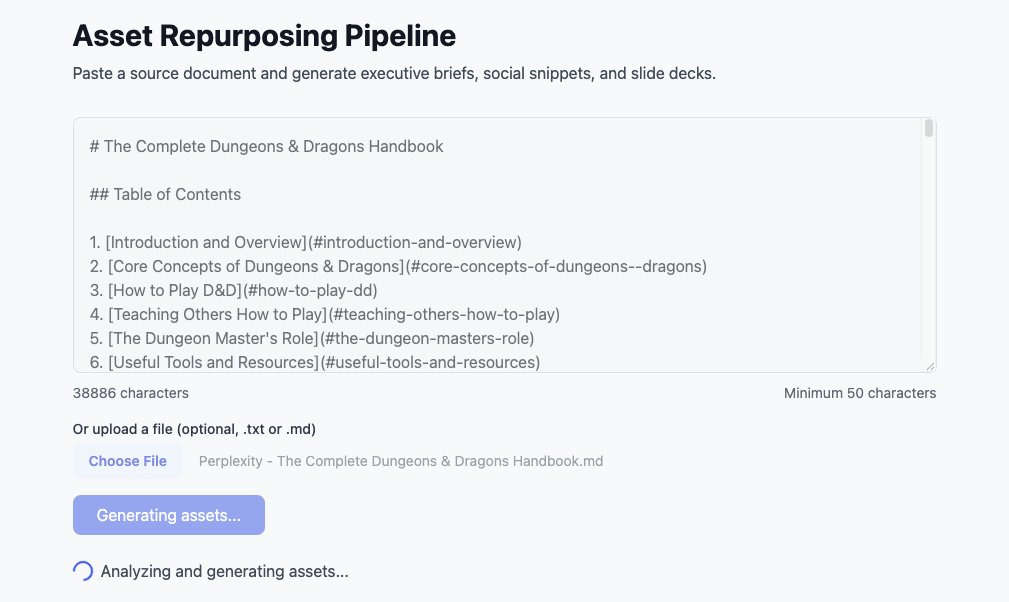
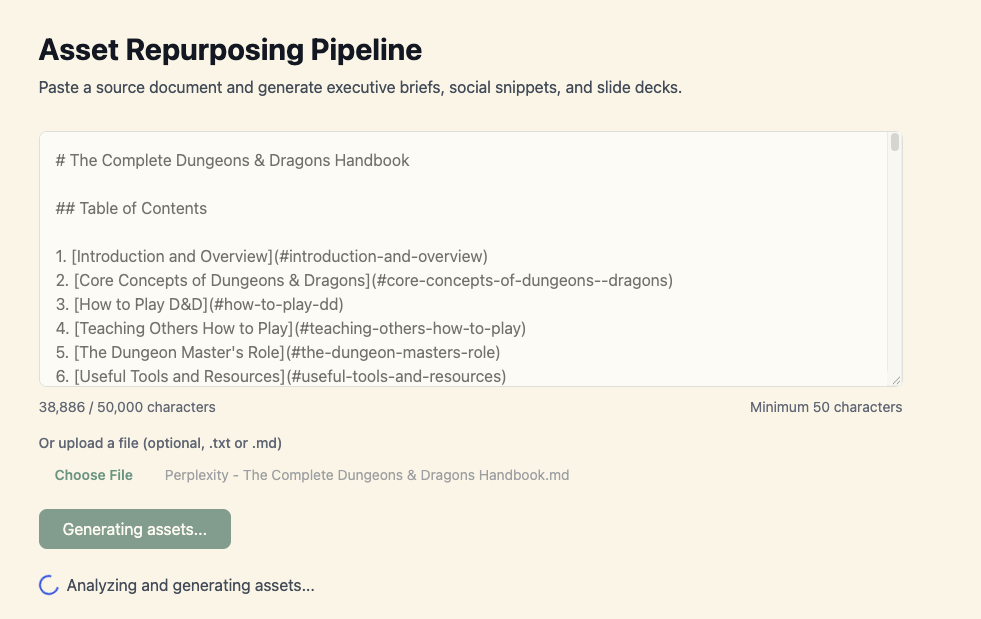
Update the screenshots to include the proper color alignment and to show the tiered slide deck bullet points.

diff --git a/README.md b/README.md
@@ -136,39 +136,31 @@ The frontend proxies pipeline requests to the backend through a Next.js Route Ha
 
 ## Live Demo
 
-The screenshots below show a real end-to-end run against a long source document: [`assets-for-repurposing/Perplexity - The Complete Dungeons & Dragons Handbook.md`](assets-for-repurposing/Perplexity%20-%20The%20Complete%20Dungeons%20%26%20Dragons%20Handbook.md).
+> **Live demo source:** The screenshots below show a real end-to-end run against [`assets-for-repurposing/Perplexity - The Complete Dungeons & Dragons Handbook.md`](assets-for-repurposing/Perplexity%20-%20The%20Complete%20Dungeons%20%26%20Dragons%20Handbook.md). The document is ≈38,900 characters, so it fits cleanly under the `MAX_SOURCE_CHARS=50000` default without truncation.
 
-> **Important truncation notice:** The screenshot below was captured when the backend `MAX_SOURCE_CHARS` default was `20000`. The pipeline detected the overflow, truncated the input for the LLM call, and **explicitly surfaced the truncation warning in the UI** so the user knows the output was derived from a shortened excerpt. The default cap has since been raised to `50000` characters, so the demo document (≈38,900 characters) now fits without truncation. The warning banner still appears for any source that exceeds the configured cap.
-
-### Home screen
+### 1. Home screen
 
 ![Home screen](screenshots/local-asset-repurposing-home-screenshot.png)
 
-### Source input
+### 2. Source input
 
 ![Source text uploaded](screenshots/local-asset-repurposing-input.png)
 
-### Generating assets
+### 3. Generating assets
 
 ![Loading state](screenshots/local-asset-repurposing-generating-assets-loading.png)
 
-### Executive brief (with truncation warning)
+### 4. Executive brief
 
-> **The truncation warning is visible at the top of this card.** This demonstrates the pipeline's fail-safe behavior: rather than silently processing a partial document, it tells the user that the source was truncated.
+![Executive brief](screenshots/local-asset-repurposing-executive-brief.png)
 
-![Executive brief with truncation warning](screenshots/local-source-truncated-and-executive-brief.png)
+### 5. Social snippets
 
-### LinkedIn social snippet
+![Social snippets](screenshots/local-asset-repurposing-social-snippets.png)
 
-![LinkedIn social snippet](screenshots/local-asset-social-snippet-linkedin.png)
+### 6. Slide deck with tiered bullets and speaker notes
 
-### X / Twitter social snippet
-
-![X / Twitter social snippet](screenshots/local-asset-social-snippet-x-twitter.png)
-
-### Slide deck with tiered bullets and speaker notes
-
-![Slide deck with tiered bullets and speaker notes](screenshots/local-asset-slide-deck-tiered-bullets-with-speaker-notes.png)
+![Slide deck with tiered bullets and speaker notes](screenshots/local-asset-repurposing-slide-deck-speaker-notes.png)
 
 ## Usage
 
